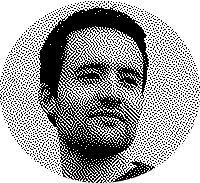
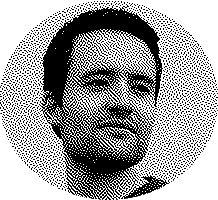
:sparkles: resize profile image

diff --git a/index.html b/index.html
@@ -20,15 +20,16 @@
         <meta property="og:title" content="Antoine Cailly's website">
         <meta property="og:description" content="Developer at Zenika Rennes">
         <meta property="og:image" content="https://acailly.github.io/profile.png">
-        <meta property="og:image:width" content="400">
-        <meta property="og:image:height" content="366">
+        <meta property="og:image:width" content="218">
+        <meta property="og:image:height" content="200">
         <meta property="og:url" content="https://acailly.github.io">
         <meta property="og:type" content="website">
 
         <!-- Twitter Meta Tags -->
         <meta name="twitter:title" content="Antoine Cailly's website">        
         <meta name="twitter:description" content=" Developer at Zenika Rennes">        
-        <meta name="twitter:image" content=" https://acailly.github.io/profile.png">        
+        <meta name="twitter:image" content=" https://acailly.github.io/profile.png"> 
+        <meta name="twitter:image:alt" content="Profile image of Antoine Cailly">       
         <meta name="twitter:card" content="summary_large_image">
         
         <style type="text/css">
